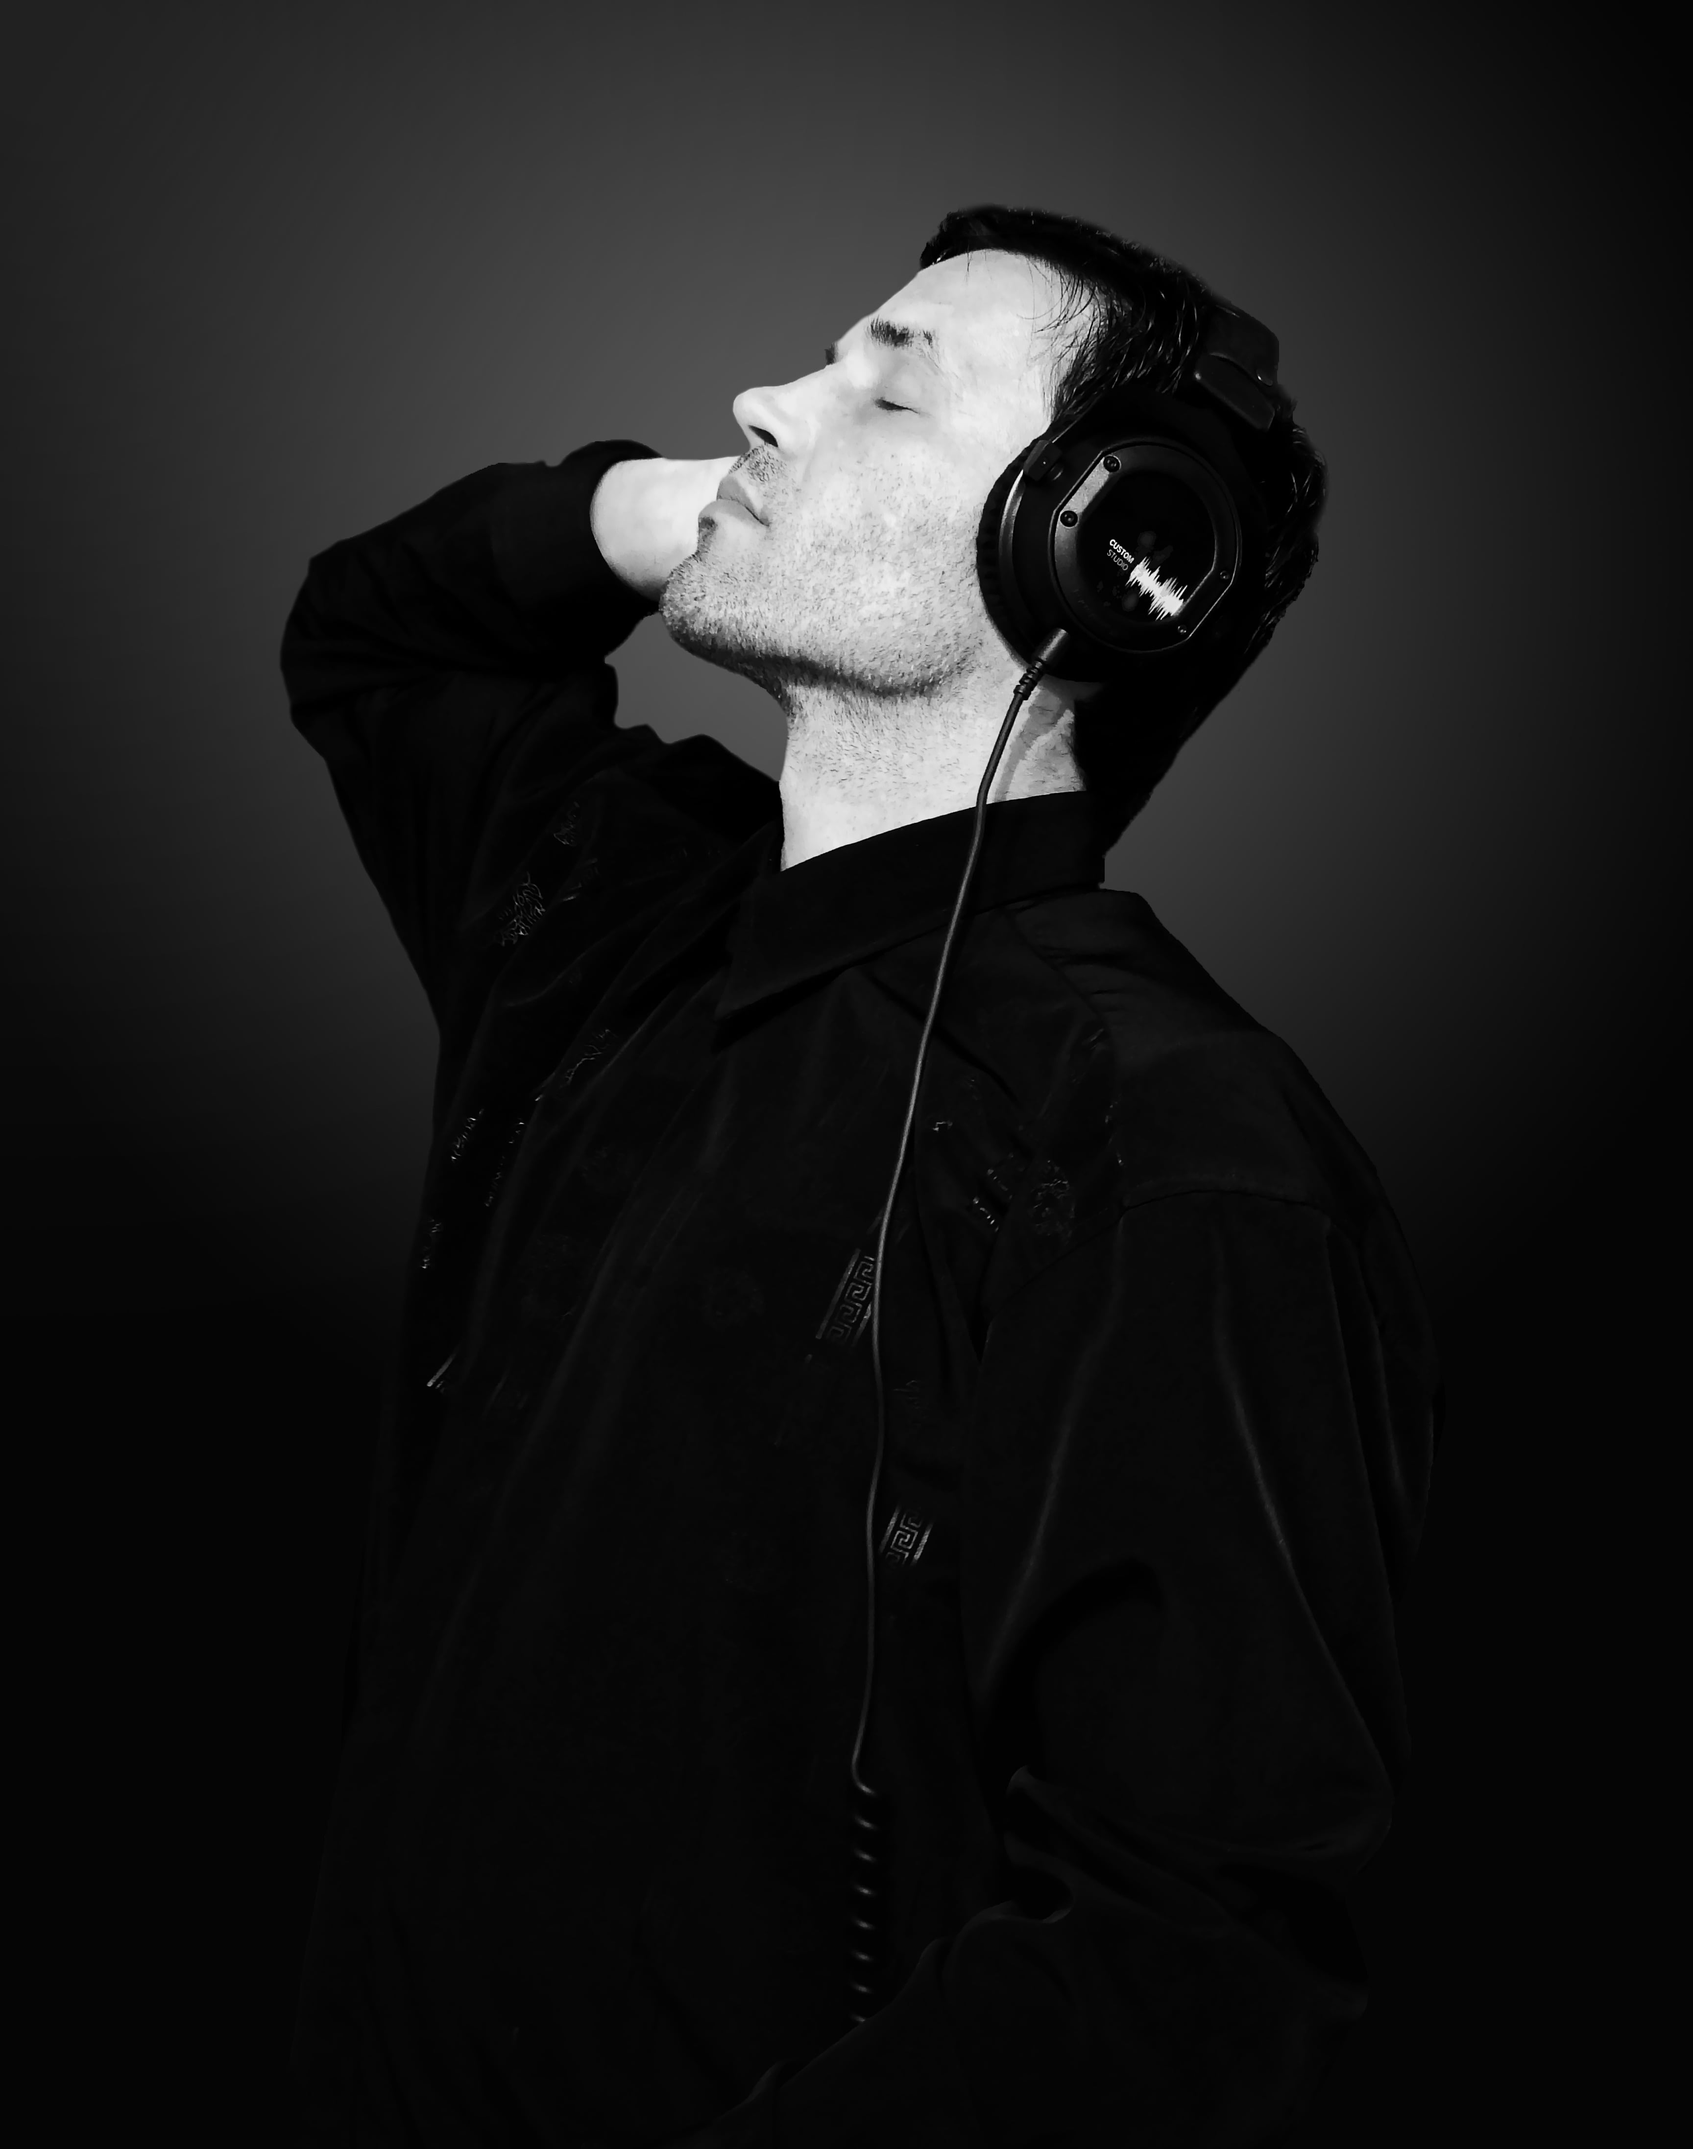
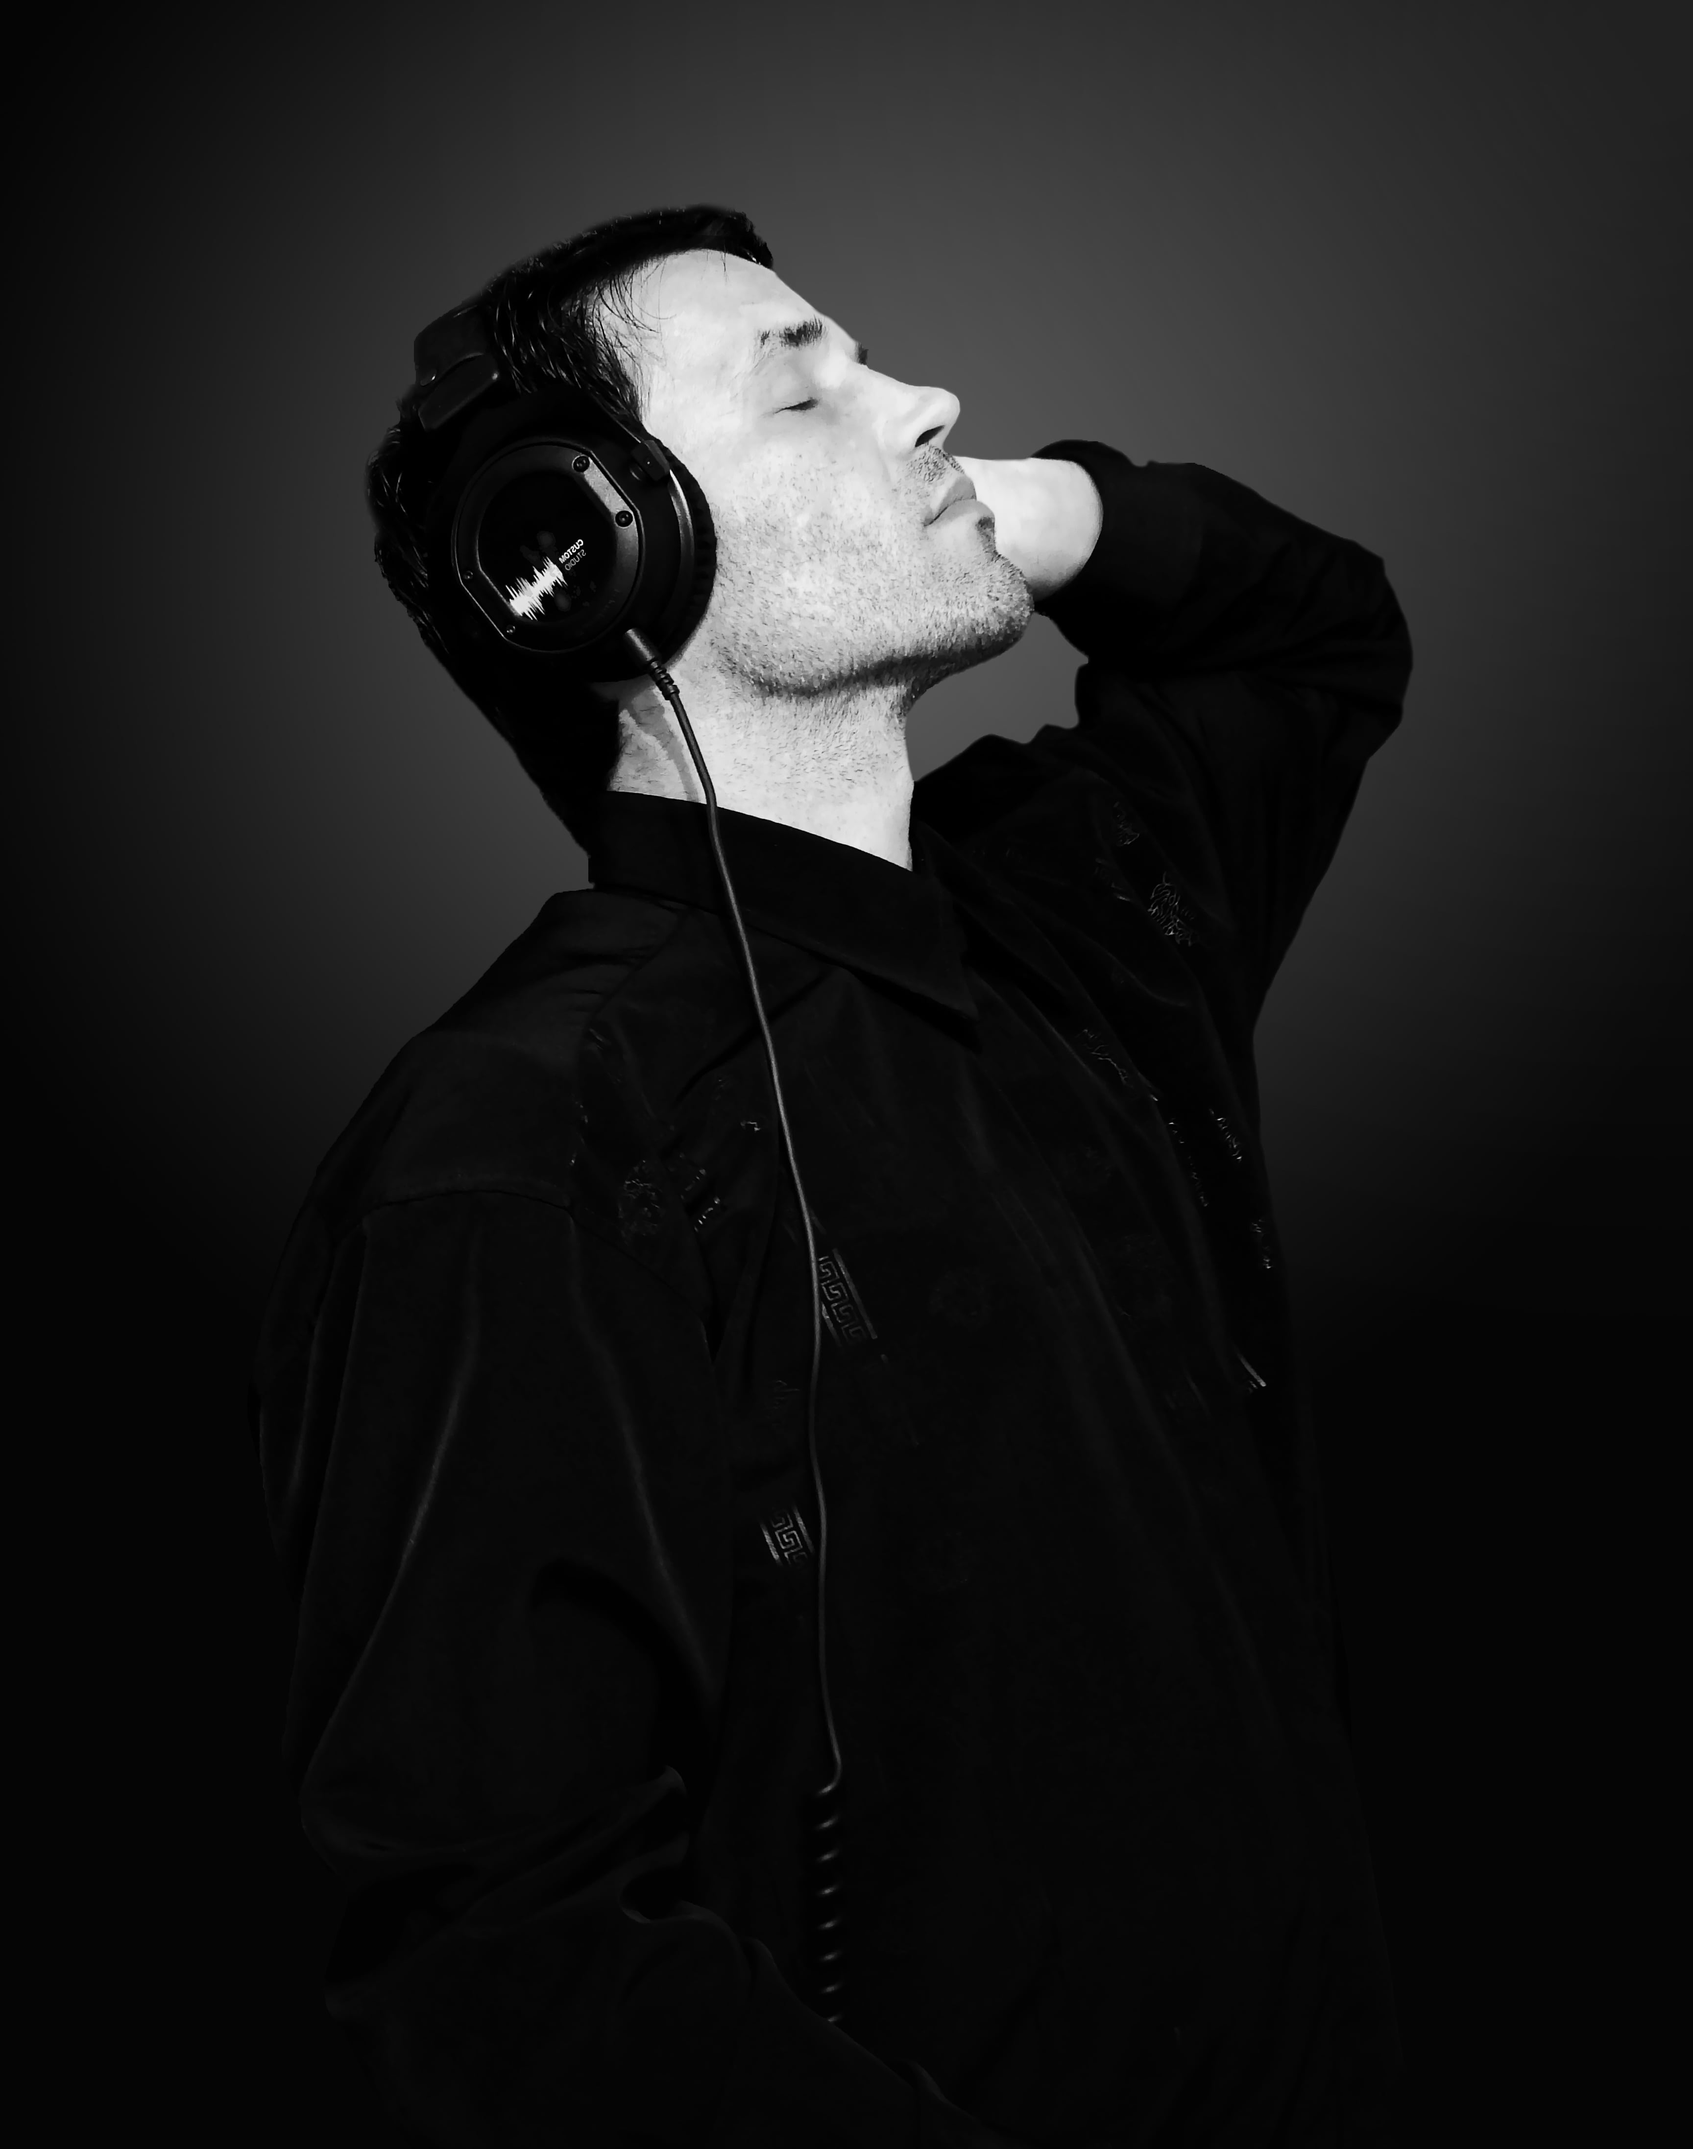
Update "Just arrived full hero" pattern design

diff --git a/patterns/just-arrived-full-hero.php b/patterns/just-arrived-full-hero.php
@@ -13,14 +13,14 @@ $pattern_button      = $content['buttons'][0]['default'] ?? '';
 $pattern_image       = PatternsHelper::get_image_url( $images, 0, 'images/pattern-placeholders/man-person-music-black-and-white-white-photography.jpg' );
 ?>
 
-<!-- wp:cover {"url":"<?php echo esc_url( $pattern_image ); ?>", "focalPoint":{"x":0.5,"y":0.1}, "dimRatio":30,"minHeight":739,"contentPosition":"center right","align":"full","style":{"spacing":{"margin":{"bottom":"80px"},"padding":{"left":"0","right":"25%"}}}}  -->
-<div class="wp-block-cover alignfull has-custom-content-position is-position-center-right" style="margin-bottom:80px;padding-right:25%;padding-left:0;min-height:739px">
-	<span aria-hidden="true" class="wp-block-cover__background has-background-dim-30 has-background-dim"></span>
-	<img class="wp-block-cover__image-background" alt="" src="<?php echo esc_url( $pattern_image ); ?>" style="object-position:50% 10%" data-object-fit="cover" data-object-position="50% 10%" />
+<!-- wp:cover {"url":"<?php echo esc_url( $pattern_image ); ?>","dimRatio":50,"focalPoint":{"x":0.5,"y":0.21},"minHeight":739,"contentPosition":"center right","align":"full"} -->
+<div class="wp-block-cover alignfull has-custom-content-position is-position-center-right" style="min-height:739px">
+	<span aria-hidden="true" class="wp-block-cover__background has-background-dim"></span>
+	<img class="wp-block-cover__image-background" alt="" src="<?php echo esc_url( $pattern_image ); ?>" style="object-position:50% 21%" data-object-fit="cover" data-object-position="50% 21%" />
 	<div class="wp-block-cover__inner-container">
-		<!-- wp:group {"style":{"spacing":{"margin":{"top":"0","bottom":"0"},"padding":{"right":"var:preset|spacing|80","left":"var:preset|spacing|80"},"blockGap":"16px"}}} {"layout":{"type":"constrained"}} -->
-		<div class="wp-block-group">
-			<!-- wp:heading {"anchor":"just-arrived"} -->
+		<!-- wp:group {"style":{"spacing":{"padding":{"right":"60px","left":"60px"}}},"layout":{"type":"constrained","justifyContent":"center"}} -->
+		<div class="wp-block-group" style="padding-right:60px;padding-left:60px">
+			<!-- wp:heading -->
 			<h2 class="wp-block-heading" id="just-arrived"><?php echo esc_html( $pattern_title ); ?></h2>
 			<!-- /wp:heading -->
 
@@ -28,7 +28,7 @@ $pattern_image       = PatternsHelper::get_image_url( $images, 0, 'images/patter
 			<p><?php echo esc_html( $pattern_description ); ?></p>
 			<!-- /wp:paragraph -->
 
-			<!-- wp:buttons -->
+			<!-- wp:buttons {"layout":{"type":"flex","justifyContent":"left"}} -->
 			<div class="wp-block-buttons">
 				<!-- wp:button -->
 				<div class="wp-block-button">
